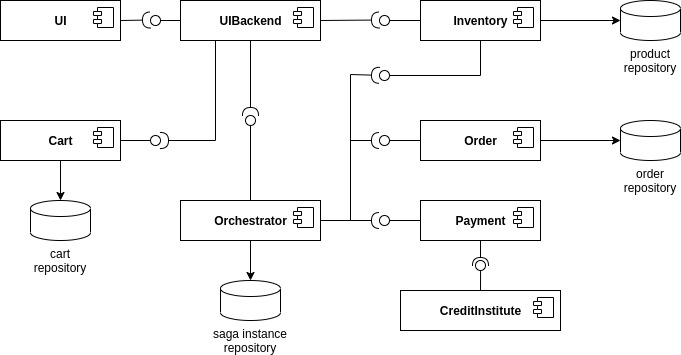
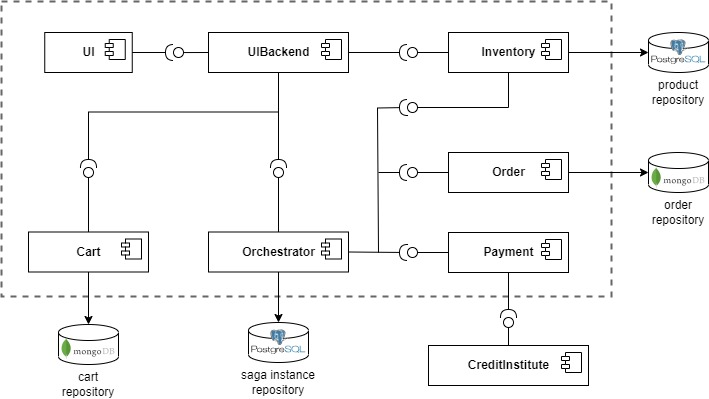
Update component diagrams

diff --git a/source/monolith/arch.rst b/source/monolith/arch.rst
@@ -2,56 +2,15 @@
 T2-Modulith Architecture
 ========================
 
-On this page the architecture of the T2-Modulith application is described.
-
-Microservices → Monolith
-------------------------
-
-The following table shows how the microservices implementation was migrated to a monolithic implementation.
-
-.. list-table::
-   :header-rows: 1
-
-   * - Microservice
-     - Monolith
-     - Comments
-   * - `Cart <https://github.com/t2-project/cart>`_
-     - Cart Module
-     - 
-   * - `Inventory <https://github.com/t2-project/inventory>`_
-     - Inventory Module
-     - 
-   * - `Order <https://github.com/t2-project/order>`_
-     - Order Module
-     - 
-   * - `Payment <https://github.com/t2-project/payment>`_
-     - Payment Module
-     - 
-   * - `UI <https://github.com/t2-project/ui>`_
-     - UI Module
-     - JSP 😕 → application has to be packaged as a ``war`` package (see :doc:`Development <dev>`)
-   * - `UI Backend <https://github.com/t2-project/uibackend>`_
-     - UI Backend Module
-     - | Still an API gateway for the UI but in a different way:
-       | UI interacts with UI Backend via inter-process communication instead of HTTP requests over the network
-   * - `Orchestrator <https://github.com/t2-project/orchestrator>`_
-     - ❌
-     - | Saga Pattern not needed anymore
-       | → Simple transaction is used to finalize an order, part of the order module
-
-
-The `common <https://github.com/t2-project/common>`_ package that is used as a jar dependency by all microservices for inter-service communication is not used by the monolith. Some parts are moved to the respective domain-specific module. There is now a ``config`` package that includes the configuration that is relevant for multiple modules, however, without any class definitions required used for communication.
-
-Architecture Description
-------------------------
-
 The T2-Modulith application consists of six modules:
 
-.. image:: ./figs/component-diagram.svg
-   :target: ./figs/component-diagram.svg
-   :alt: Components Diagram of the T2-Modulith application
+.. image:: ./figs/component_diagram.svg
+   :alt: Component Diagram of the T2-Modulith application
 
-Diagram was created by `Spring Modulith <https://docs.spring.io/spring-modulith/reference/documentation.html>`_.
+The main difference between this architecture of the monolith implementation and the implementation of the :doc:`microservices architecture <../microservices/arch>` is the removal of the orchestrator service. In the monolithic implementation the finalization of an order gets coordinated by the order module.
+
+Module Descriptions
+-------------------
 
 UI Module
 ~~~~~~~~~
@@ -94,3 +53,52 @@ Cart Module
 The cart module manages the shopping carts of the T2-Project.
 The content of a user's shopping cart is a map of Strings to Integers.
 Within the context of the T2-Project it contains which products (identified by their id) and how many units there of a users wants to buy.
+
+
+Microservices → Monolith
+------------------------
+
+The following table shows how the microservices implementation was migrated to a monolithic implementation.
+
+.. list-table::
+   :header-rows: 1
+
+   * - Microservice
+     - Monolith
+     - Comments
+   * - `Cart <https://github.com/t2-project/cart>`_
+     - Cart Module
+     - 
+   * - `Inventory <https://github.com/t2-project/inventory>`_
+     - Inventory Module
+     - 
+   * - `Order <https://github.com/t2-project/order>`_
+     - Order Module
+     - 
+   * - `Payment <https://github.com/t2-project/payment>`_
+     - Payment Module
+     - 
+   * - `UI <https://github.com/t2-project/ui>`_
+     - UI Module
+     - JSP 😕 → application has to be packaged as a ``war`` package (see :doc:`Implementation <../develop/impl>`)
+   * - `UI Backend <https://github.com/t2-project/uibackend>`_
+     - UI Backend Module
+     - | Still an API gateway for the UI but in a different way:
+       | UI interacts with UI Backend via inter-process communication instead of HTTP requests over the network
+   * - `Orchestrator <https://github.com/t2-project/orchestrator>`_
+     - ❌
+     - | Saga Pattern not needed anymore
+       | → Simple transaction is used to finalize an order, part of the order module
+
+
+The `common <https://github.com/t2-project/common>`_ package that is used as a jar dependency by all microservices for inter-service communication is not used by the monolith. Some parts are moved to the respective domain-specific module. There is now a ``config`` package that includes the configuration that is relevant for multiple modules, however, without any class definitions required used for communication.
+
+
+Spring Modulith
+---------------
+
+The modularity of the application gets verified by `Spring Modulith <https://spring.io/projects/spring-modulith>`_.
+In addition to that, it generates a component diagram:
+
+.. image:: ./figs/component_diagram-spring_modulith.svg
+   :alt: Component Diagram of the T2-Modulith application generated by Spring Modulith

diff --git a/source/microservices/arch.rst b/source/microservices/arch.rst
@@ -4,18 +4,18 @@ T2-Project Architecture
 
 The T2-Project consists of seven services.
 
-.. image:: figs/component_total_colour.jpg
+.. image:: figs/component_total_colour.svg
 
 The green and blue services are the core T2 services. The blue ones participate in the saga, the green ones do not. 
 The white things are databases and external services.  
 
-*  `UI <https://github.com/t2-project/ui>` : The application frontend.
-*  `UIBackend <https://github.com/t2-project/uibackend>` : API Gateway for the UI.
-*  `Cart <https://github.com/t2-project/cart>` : Manages the user shopping carts. It saves the cart contents to the *cart repository*.
-*  `Orchestrator <https://github.com/t2-project/orchestrator>` : Manages the saga.
-*  `Order <https://github.com/t2-project/order>` : Persists orders to the *order repository* and marks them as either *success* or *failure*.
-*  `Payment <https://github.com/t2-project/payment>` : Handles the store’s payment by contacting some credit institute.
-*  `Inventory <https://github.com/t2-project/inventory>`: Manages the store's products. They are stored in the *product repository*.
+*  `UI <https://github.com/t2-project/ui>`__ : The application frontend.
+*  `UIBackend <https://github.com/t2-project/uibackend>`__ : API Gateway for the UI.
+*  `Cart <https://github.com/t2-project/cart>`__ : Manages the user shopping carts. It saves the cart contents to the *cart repository*.
+*  `Orchestrator <https://github.com/t2-project/orchestrator>`__ : Manages the saga.
+*  `Order <https://github.com/t2-project/order>`__ : Persists orders to the *order repository* and marks them as either *success* or *failure*.
+*  `Payment <https://github.com/t2-project/payment>`__ : Handles the store’s payment by contacting some credit institute.
+*  `Inventory <https://github.com/t2-project/inventory>`__ : Manages the store's products. They are stored in the *product repository*.
 
 The UIBackend communicates over HTTP with a REST like interface.
 The Saga participants (marked in blue) use message based communication among each other. 
@@ -88,7 +88,7 @@ Spring and Spring Boot
 =================== ==============
 Dependency          Version
 =================== ==============
-Spring Boot         2.4.4
+Spring Boot         3.1.x
 =================== ==============
 
 
